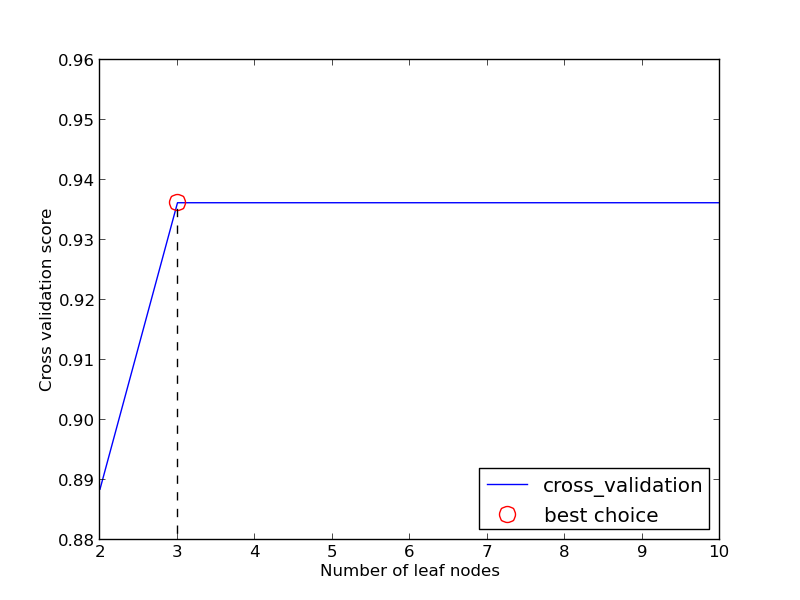
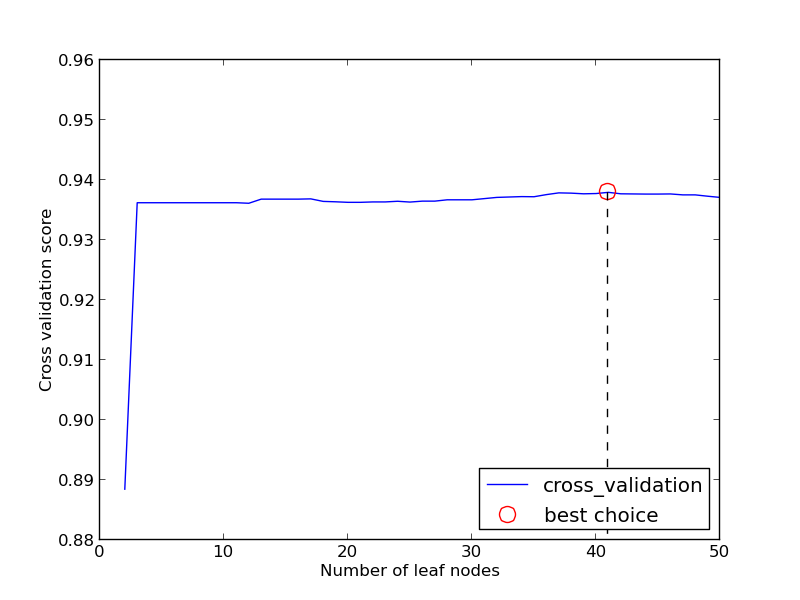
pruning eval

diff --git a/proj1/pruning_eval.py b/proj1/pruning_eval.py
@@ -5,8 +5,67 @@ from sklearn.metrics import accuracy_score, precision_score, recall_score
 import numpy as np
 n_fold = 5
 
-def main():
-    
+def pruning_cross_validation(x, y, cv):
+    min_m , max_m, delta_m = 1, 1000, 10
+    size = (max_m - min_m) / delta_m + 1
+    print size
+    a_score = [[] for i in xrange(size)]
+    p_score = [[] for i in xrange(size)]
+    r_score = [[] for i in xrange(size)]
+    k_in = 0
+    for train, test in cv:
+        x_train, x_test, y_train, y_test = x[train] , x[test] , y[train] , y[test]
+        m = min_m
+        while 1:
+            print "Out:{} In:{} iter:{}".format(k_out, k_in, m)
+            clf = DecisionTreeClassifier(criterion='entropy', max_leaf_nodes=m + 1)
+            clf.fit(x_train, y_train)
+            y_pred = clf.predict(x_test)
+            acc = accuracy_score(y_test, y_pred) 
+            print 'accuracy: {}'.format(acc)
+            m_idx = (m - min_m) / delta_m
+            a_score[m_idx].append(acc)
+            p_score[m_idx].append(precision_score(y_test, y_pred))
+            r_score[m_idx].append(recall_score(y_test, y_pred))
+            m += delta_m
+            if m > max_m:
+                break
+        k_in += 1
+    max_val, max_id = -1, -1
+    for i in xrange(len(a_score)):
+        acc = np.mean(a_score[i])
+        if acc > max_val:
+            max_val = acc
+            max_id = i
+        a_score[i] = acc
+    return max_id * delta_m + min_m
 
+def main():
+    global k_out
+    k_out = 0
+    x, y = load_data(k=2)
+    kf_out = cross_validation.KFold(len(x), n_fold)
+    a_score, p_score, r_score = [], [], []
+    for train_out, test_out in kf_out:
+        x_train_out, x_test_out, y_train_out, y_test_out = x[train_out] , x[test_out] , y[train_out] , y[test_out]
+        kf = cross_validation.KFold(len(x_train_out), n_fold)
+        m_opt = pruning_cross_validation(x_train_out, y_train_out, kf)
+        clf = DecisionTreeClassifier(criterion='entropy', max_leaf_nodes=m_opt + 1)
+        print '=========m_opt:{}'.format(m_opt)
+        clf.fit(x_train_out, y_train_out)
+        y_pred = clf.predict(x_test_out)
+        a_score.append(accuracy_score(y_test_out, y_pred))
+        p_score.append(precision_score(y_test_out, y_pred))
+        r_score.append(recall_score(y_test_out, y_pred))
+        k_out += 1
+    a = np.mean(a_score)
+    p = np.mean(p_score)
+    r = np.mean(r_score)
+    f = 2 * p * r / (p + r)
+    print 'precision: {}'.format(p)
+    print "recall: {}".format(r)
+    print "f1: {}".format(f)
+    print "accuracy: {}".format(a)
+                    
 if __name__ == "__main__":
     main()
